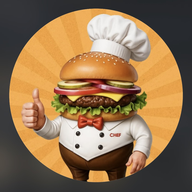
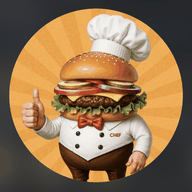
perf: reduz 288KB por visita otimizando imagens
O mascote era servido em 1170x853 (117KB) para ser exibido no máximo a
320px, e os ícones do PWA vinham em RGB sem paleta. Redimensionado para
878x640 (cobre retina 2x) e ícones quantizados para paleta de 256 cores.

  mascot.jpg           117K -> 47K   (-60%)
  icon-512.png         270K -> 108K  (-60%)
  icon-192.png          52K -> 23K   (-57%)
  apple-touch-icon.png  47K -> 20K   (-57%)

Adicionado mascot.webp (25K) via <picture> no herói do site cliente, que
é o elemento LCP — com width/height explícitos para eliminar layout shift
e fetchpriority alto. Cache do service worker vai para v44.

Claude-Session: https://claude.ai/code/session_01YXeSPHtGKxyosXfWWYr8hh

Changed region(s): [[0.25, 0.4375, 0.6875, 0.5938], [0.6875, 0.4688, 0.7812, 0.5625]]

diff --git a/index.html b/index.html
@@ -985,7 +985,11 @@
     <div class="hero-art">
       <div class="sunburst-bg"></div>
       <div class="plate-glow"></div>
-      <img src="mascot.jpg" alt="Mascote Chef O Markin" class="mascot-hero">
+      <picture>
+        <source srcset="mascot.webp" type="image/webp">
+        <img src="mascot.jpg" alt="Mascote Chef O Markin" class="mascot-hero"
+             width="320" height="320" fetchpriority="high">
+      </picture>
     </div>
   </div>
 </section>

diff --git a/sw.js b/sw.js
@@ -1,5 +1,5 @@
-const CACHE = "omarkin-cliente-v43";
-const ASSETS = ["/", "/index.html", "/manifest.json", "/icon-192.png", "/icon-512.png", "/mascot.jpg"];
+const CACHE = "omarkin-cliente-v44";
+const ASSETS = ["/", "/index.html", "/manifest.json", "/icon-192.png", "/icon-512.png", "/mascot.jpg", "/mascot.webp"];
 
 self.addEventListener('install', (e) => {
   self.skipWaiting();
